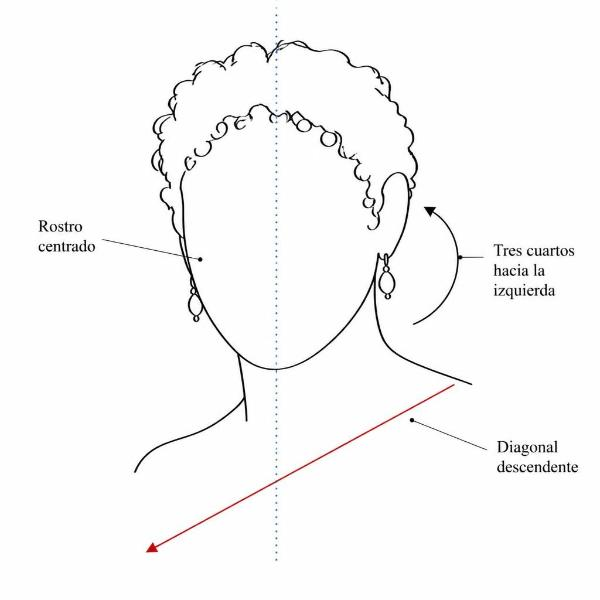
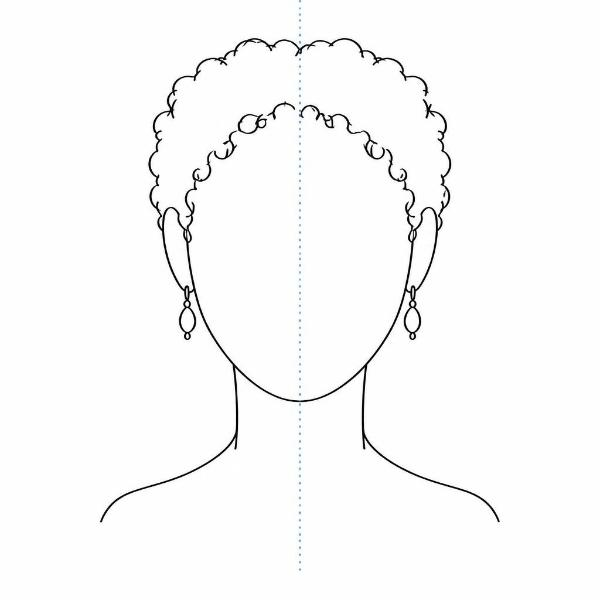
Incluyendo más agrupaciones para búsquedas

diff --git a/content/Seccion-retratos/Seccion-agrupaciones/Agrupaciones.md b/content/Seccion-retratos/Seccion-agrupaciones/Agrupaciones.md
@@ -9,7 +9,7 @@ Aquí tienen desglosadas y actualizadas todas las agrupaciones posibles.
 
 *** 
 
-| **1-AGBU**  | **AGRUPACIÓN BUSTOS**                                                                         |
+| **AGBU**    | **AGRUPACIÓN BUSTOS**                                                                         |
 | :---------: | :-------------------------------------------------------------------------------------------- |
 |    BU01     | Busto desplazado hacia la izquierda desbordando el marco                                      |
 |    BU02     | Busto desplazado hacia la izquierda sin desbordar el marco                                    |
@@ -19,7 +19,7 @@ Aquí tienen desglosadas y actualizadas todas las agrupaciones posibles.
 |    BU10     | Busto vestido                                                                                 |
 |    BU11     | Busto desnudo                                                                                 |
 |             |                                                                                               |
-| **2-AGCO**  | **AGRUPACIÓN COLLARES**                                                                       |
+| **AGCO**    | **AGRUPACIÓN COLLARES**                                                                       |
 |     COA     | Con un collar                                                                                 |
 |     COB     | Con dos collares                                                                              |
 |     COC     | Con tres o más collares                                                                       |
@@ -32,7 +32,18 @@ Aquí tienen desglosadas y actualizadas todas las agrupaciones posibles.
 |    CO25     | Dije unido a cuello y cintura                                                                 |
 |    CO50     | Collar recubierto con pan de oro                                                              |
 |             |                                                                                               |
-| **3-AGCR**  | **AGRUPACIÓN CORONAS**                                                                        |
+| **AGGE**    | **AGRUPACIÓN COMPOSICIÓN GEOMÉTRICA**                                                         |
+|    GE01     | Composición geométrica 01                                                                     |
+|    GE02     | Composición geométrica 02                                                                     |
+|    GE03     | Composición geométrica 03                                                                     |
+|    GEA      | Composición geométrica A                                                                      |
+|    GEB      | Composición geométrica B                                                                      |
+|    GEC      | Composición geométrica C                                                                      |
+|    GEi      | Composición geométrica i                                                                      |
+|    GEii     | Composición geométrica ii                                                                     |
+|    GEiii    | Composición geométrica iii                                                                    |
+|             |                                                                                               |
+| **AGCR**    | **AGRUPACIÓN CORONAS**                                                                        |
 |    CR00     | Corona indeterminada                                                                          |
 |    CR01     | Corona de pan de oro formando rombos y ángulo agudo en el centro                              |
 |    CR02     | Corona de pan de oro formando rombos adaptada al contorno de la cabeza                        |
@@ -40,14 +51,14 @@ Aquí tienen desglosadas y actualizadas todas las agrupaciones posibles.
 |    CR10     | Pasador central, perpendicular a la frente                                                    |
 |    CR20     | Adorno central estrellado                                                                     |
 |             |                                                                                               |
-| **4-AGCU**  | **AGRUPACIÓN CUELLOS**                                                                        |
+| **AGCU**    | **AGRUPACIÓN CUELLOS**                                                                        |
 |    CU01     | Cuello tipo ánfora                                                                            |
 |    CU02     | Cuello tipo de cisne                                                                          |
 |    CU03     | Cuello tipo toro                                                                              |
 |    CU04     | Cuello tipo troncocónico                                                                      |
 |    CU05     | Cuello tipo tubular                                                                           |
 |             |                                                                                               |
-| **5-AGED**  | **AGRUPACIÓN EDADES**                                                                         |
+| **AGED**    | **AGRUPACIÓN EDADES**                                                                         |
 |    ED01     | <3 años, bebé                                                                                 |
 |    ED02     | <3 años, niño pequeño                                                                         |
 |    ED03     | <3 años, niña pequeña                                                                         |
@@ -62,7 +73,7 @@ Aquí tienen desglosadas y actualizadas todas las agrupaciones posibles.
 |    ED12     | >50 años, anciano                                                                             |
 |    ED13     | >50 años, anciana                                                                             |
 |             |                                                                                               |
-| **7-AGES**  | **AGRUPACIÓN ESPECIAL**                                                                       |
+| **AGES**    | **AGRUPACIÓN ESPECIAL**                                                                       |
 |    ES01     | Retrato con inscripción                                                                       |
 |    ES02     | Retrato con nombre propio                                                                     |
 |    ES02a    | Retrato con nombre impropio                                                                   |
@@ -72,7 +83,7 @@ Aquí tienen desglosadas y actualizadas todas las agrupaciones posibles.
 |    ES30     | Retrato recompuesto                                                                           |
 |    ES40     | Panel pintado por ambos lados                                                                 |
 |             |                                                                                               |
-| **6-AGEG**  | **AGRUPACIÓN ESTADO GENERAL DEL RETRATO**                                                     |
+| **AGEG**    | **AGRUPACIÓN ESTADO GENERAL DEL RETRATO**                                                     |
 |    EG01     | Estado pésimo (-3)                                                                            |
 |    EG02     | Estado precario (-2)                                                                          |
 |    EG03     | Estado deficiente (-1)                                                                        |
@@ -82,13 +93,13 @@ Aquí tienen desglosadas y actualizadas todas las agrupaciones posibles.
 |    EG07     | Estado muy bueno (+2)                                                                         |
 |    EG08     | Estado excelente (+3)                                                                         |
 |             |                                                                                               |
-| **8-AGFO**  | **AGRUPACIÓN FONDOS**                                                                         |
+| **AGFO**    | **AGRUPACIÓN FONDOS**                                                                         |
 |    FO01     | Fondo completamente cubierto de dorado                                                        |
 |    FO02     | Fondo de color uniforme                                                                       |
 |    FO03     | Fondo con diferencia tonal: oscuro-pasado / claro-presente                                    |
 |    FO04     | Fondo con diferencia tonal: claro-pasado / oscuro-presente                                    |
 |             |                                                                                               |
-| **10-AGFR** | **AGRUPACIÓN FRENTES**                                                                        |
+| **AGFR**    | **AGRUPACIÓN FRENTES**                                                                        |
 |    FR01     | Frente tipo arco carpanel                                                                     |
 |    FR02     | Frente tipo arco conopial                                                                     |
 |    FR03     | Frente tipo arco deprimido                                                                    |
@@ -101,13 +112,13 @@ Aquí tienen desglosadas y actualizadas todas las agrupaciones posibles.
 |    FR20     | Frente tipo desacorde                                                                         |
 |    FR21     | Frente tipo pechina                                                                           |
 |             |                                                                                               |
-| **9-AGGR**  | **AGRUPACIÓN GRUPOS**                                                                         |
+| **AGGR**    | **AGRUPACIÓN GRUPOS**                                                                         |
 |    GR01     | Grupo de militares                                                                            |
 |    GR02     | Grupo de bustos desnudos                                                                      |
 |    GR03     | Grupo de sacerdotes-tisas                                                                     |
 |    GR04     | Grupo de empresarios                                                                          |
 |             |                                                                                               |
-| **11-AGIC** | **AGRUPACIÓN ICONOGRAFÍA**                                                                    |
+| **AGIC**    | **AGRUPACIÓN ICONOGRAFÍA**                                                                    |
 |    IC01     | Sudario tipo Osiris                                                                           |
 |    IC02     | Sudario tipo psicopompo                                                                       |
 |    IC03     | Enfardado rojo procesal                                                                       |
@@ -120,19 +131,19 @@ Aquí tienen desglosadas y actualizadas todas las agrupaciones posibles.
 |    IC90     | Collar usejet (grupo de símbolos inanimados)                                                  |
 |    IC91     | Gammadion                                                                                     |
 |             |                                                                                               |
-| **12-AGMI** | **AGRUPACIÓN MIRADAS**                                                                        |
+| **AGMI**    | **AGRUPACIÓN MIRADAS**                                                                        |
 |    MI01     | mirada de las 2000 yardas                                                                     |
 |    MI02     | mirada de frente al espectador                                                                |
 |    MI03     | mirada al infinito                                                                            |
 |             |                                                                                               |
-| **13-AGMO** | **AGRUPACIÓN MOMIAS**                                                                         |
+| **AGMO**    | **AGRUPACIÓN MOMIAS**                                                                         |
 |    MO01     | Momia con sudario rojo                                                                        |
 |    MO03     | Momia con enfardado romboidal, de diamante o de panal                                         |
 |    MO04     | Momia con inscripción                                                                         |
 |    MO05     | Momia con nombre propio                                                                       |
 |    MO06     | Momia con decoración estucada                                                                 |
 |             |                                                                                               |
-| **14-AGPE** | **AGRUPACIÓN PEINADOS**                                                                       |
+| **AGPE**    | **AGRUPACIÓN PEINADOS**                                                                       |
 |    PE03     | Peinado de solo rizos sobre la frente                                                         |
 |    PE05     | Peinado corto, liso y hacia la frente con corte recto                                         |
 |    PE06     | Peinado recogido en una trenza delantera paralela y pegada a la frente, alcanzando las sienes |
@@ -153,7 +164,7 @@ Aquí tienen desglosadas y actualizadas todas las agrupaciones posibles.
 |    PEM05    | peinado modelo Serapis                                                                        |
 |    PEM20    | Peinado modelo rizado sin paralelos                                                           |
 |             |                                                                                               |
-| **17-AGPN** | **AGRUPACIÓN PENDIENTES**                                                                     |
+| **AGPN**    | **AGRUPACIÓN PENDIENTES**                                                                     |
 |    PN01     | Pendientes tipo globular                                                                      |
 |    PN01a    | Pendientes tipo perla                                                                         |
 |    PN02     | Pendientes tipo _crotalia_                                                                    |
@@ -165,7 +176,7 @@ Aquí tienen desglosadas y actualizadas todas las agrupaciones posibles.
 |    PN09     | Pendientes tipo discoidal                                                                     |
 |    PN100    | Pendientes dudosos o irreconocibles                                                           |
 |             |                                                                                               |
-| **15-AGPG** | **AGRUPACIÓN PIGMENTOS**                                                                      |
+| **AGPG**    | **AGRUPACIÓN PIGMENTOS**                                                                      |
 |   PGAMA1    | Amarillo de plomo                                                                             |
 |   PGAMA2    | Jarosita                                                                                      |
 |   PGAMA3    | Litargirio                                                                                    |
@@ -198,18 +209,18 @@ Aquí tienen desglosadas y actualizadas todas las agrupaciones posibles.
 |   PGVER3    | Tierra u ocre celadonita                                                                      |
 |   PGVER4    | Tierra u ocre glauconita                                                                      |
 |             |                                                                                               |
-| **16-AGPI** | **AGRUPACIÓN PINTORES**                                                                       |
+| **AGPI**    | **AGRUPACIÓN PINTORES**                                                                       |
 |    PI01     | Pintor de Montreal                                                                            |
 |    PI02     | Pintor de Malibú                                                                              |
 |    PI03     | Pintor de Brooklyn                                                                            |
 |    PI04     | Maestro de Isidora                                                                            |
 |    PI05     | Pintor de San Luis                                                                            |
 |             |                                                                                               |
-| **18-AGPR** | **AGRUPACIÓN PROCEDENCIA**                                                                    |
+| **AGPR**    | **AGRUPACIÓN PROCEDENCIA**                                                                    |
 |    PR01     | Procede de excavación arqueológica                                                            |
 |    PR02     | No procede de excavación arqueológica                                                         |
 |             |                                                                                               |
-| **19-AGRF** | **AGRUPACIÓN RASGOS FACIALES**                                                                |
+| **AGRF**    | **AGRUPACIÓN RASGOS FACIALES**                                                                |
 |    RF01     | Collar de Venus                                                                               |
 |    RF10     | Rostro redondeado                                                                             |
 |    RF11     | Rostro cuadrado                                                                               |
@@ -218,13 +229,13 @@ Aquí tienen desglosadas y actualizadas todas las agrupaciones posibles.
 |    RF14     | Rostro triangular                                                                             |
 |    RF15     | Rostro adiamantado                                                                            |
 |             |                                                                                               |
-| **20-AGRE** | **AGRUPACIÓN REPRESENTACIÓN**                                                                 |
+| **AGRE**    | **AGRUPACIÓN REPRESENTACIÓN**                                                                 |
 |    RE01     | Solo busto                                                                                    |
 |    RE10     | Busto y manos                                                                                 |
 |    RE11     | Busto, manos y pies                                                                           |
 |    RE20     | Busto y pies                                                                                  |
 |             |                                                                                               |
-| **21-AGVE** | **AGRUPACIÓN VESTIMENTA**                                                                     |
+| **AGVE**    | **AGRUPACIÓN VESTIMENTA**                                                                     |
 |    VE01     | Chitón blanco                                                                                 |
 |    VE02     | Chitón púrpura                                                                                |
 |    VE03     | Chitón rojo oscuro                                                                            |

diff --git a/content/Seccion-retratos/Pad001-retratistica.md b/content/Seccion-retratos/Pad001-retratistica.md
@@ -6,27 +6,52 @@ title: Pad001 - Retratística
 # Retratística
 
 ### Descripción 
-I) Edad. [[Edades|Adolescente]] entre 15-20 años. 
+<u>I) Edad</u>. [[Edades|Adolescente]] entre 15-20 años. 
 
-II) Busto. Apenas visible para determinar su orientación, con ka cabeza en 3/4, girada a su derecha y verticalmente recta; el rostro tiene forma claramente [[Rostros|adiamantada]], presentando una mandíbula no marcada que termina en un mentón alargado y afilada. No se aprecia la asimetría facial tan característica en bastantes retratos.
+<u>II) Busto</u>. Apenas visible para determinar su orientación, con la cabeza en 3/4, girada a su derecha y verticalmente recta; el rostro tiene forma claramente [[Rostros|adiamantada]], presentando una mandíbula no marcada que termina en un mentón alargado y afilado. No se aprecia la asimetría facial tan característica en bastantes retratos.
 
-III) Cabello/frente y orejas. El pelo negro, corto y liso conforma una frente [[Frentes|tipo arco carpanel]], que define un espacio estrecho pero limpio. El peinado (más la rotación del busto) no deja vislumbrar apenas nada de las orejas.
+<u>III) Cabello/frente y orejas</u>. El pelo negro, corto y liso conforma una frente [[Frentes|tipo arco carpanel]], que define un espacio estrecho pero limpio. El peinado (más la rotación del busto) no deja vislumbrar apenas nada de las orejas.
 
-IV) Ojos. Cejas anchas, arqueadas y largas, bien cuidadas, junto a pestañas muy ligeramente perceptibles solo en el ojo derecho, enmarcan hendiduras palpebrales grandes y almendradas; ojos algo caídos, con la “mirada de las 2000 yardas”, carentes de punto blanco en la pupila (el denominado “punto de la vida”). Los párpados superiores aparecen pesados y caídos, mientras que los inferiores se adivinan enrojecidos, y los pómulos no se han destacado.
+<u>IV) Ojos</u>. Cejas anchas, arqueadas y largas, bien cuidadas, junto a pestañas muy ligeramente perceptibles solo en el ojo derecho, enmarcan hendiduras palpebrales grandes y almendradas; ojos algo caídos, con la “mirada de las 2000 yardas”, carentes de punto blanco en la pupila (el denominado “punto de la vida”). Los párpados superiores aparecen pesados y caídos, mientras que los inferiores se adivinan enrojecidos, y los pómulos no se han destacado.
 
-V) Nariz y boca. Larga y recta, con lóbulos abiertos, la primera, se une a la boca por un surco nasolabial apenas marcado y sin surcos nasogenianos. Esta se ha representado cerrada, corta y pequeña, con un pliegue comisural marcado por una gran línea negra recta; elegantes labios de tonos rosados y el arco de Cupido apenas relevante. En conjunto, la boca ofrece una serenidad y abstracción de excesos que refuerza el conjunto.
+<u>V) Nariz y boca</u>. Larga y recta, con lóbulos abiertos, la primera, se une a la boca por un surco nasolabial apenas marcado y sin surcos nasogenianos. Esta se ha representado cerrada, corta y pequeña, con un pliegue comisural marcado por una gran línea negra recta; elegantes labios de tonos rosados y el arco de Cupido apenas relevante. En conjunto, la boca ofrece una serenidad y abstracción de excesos que refuerza el conjunto.
 
-VI) Cuello. [[Cuellos|Cuello tipo tubular]].
+<u>VI) Cuello</u>. [[Cuellos|Tipo tubular]].
 
-VII) Carnación. Tonos cálidos de tez mediterránea con pocas florituras.
+<u>VII) Carnación</u>. Tonos cálidos de tez mediterránea con pocas florituras.
 
-VIII) Luz. Una luz lateral contrastada entra desde su izquierda, aunque las sombras propias han sido bastante obliteradas salvo, quizás, en el cuello. A la vez, la zona iluminada lo está, en apariencia, del mismo color adyacente, solo que aclarado.
-
-IX) Desplazamiento No percibimos nada destacable en este apartado.
-
-X) Fondo. Para Christie's (2006), es de tono crema visible hoy apenas, aunque encajaría perfectamente con la tonalidad general de la obra.
-
-XI) Consideración general. La obra presenta una coherencia absoluta y una belleza serena imponente. Todos los detalles que se han ido enumerando abundan en una declaración sin estridencias, en un excelso tratamiento pictórico que acompaña una imagen trágica y calma a la vez.
+<u>VIII) Consideraciones generales (*[[Consideraciones|vid.]]*)</u>. La obra presenta una coherencia cromática absoluta y una belleza serena imponente. Todos los detalles que se han ido enumerando abundan en una declaración sin estridencias, en un excelso tratamiento pictórico que acompaña una imagen trágica y calma a la vez.
 
 ### Técnica, materiales y procedimientos 
-I) Técnica. Encáustica (cera como aglutinante) sobre madera desconocida de 39.6 cm (Christie's 2006).
+**I) Técnica.** 
+
+a) Encáustica (cera como aglutinante) sobre madera desconocida de 39.6 cm (Christie's 2006).
+
+b) La encáustica ([[encaustica|v. artículo]]) es una técnica pictórica que utiliza la cera fundida como aglutinante de los pigmentos. A veces se añaden pequeñas cantidades de resinas naturales, para conferir mayor dureza, o aceites, para facilitar su manipulación. Debe aplicarse en caliente con pincel o espátula y, al enfriarse, se endurece y queda fundida sobre la superficie.
+
+**II) Materiales.**
+
+<u>a), b), c)</u> Carecemos de informaciones relativas a imprimación, pigmentos o decoraciones especiales aplicadas a esta obra.
+
+**III) Procedimientos.**
+
+<u>a), b)</u> Sin noticias sobre la existencia de aparejo o boceto preparatorio en este panel.
+
+(V. figura 1: Esquema geométrico 03. Elaboración propia).
+<img src="../images/geometria-03.jpg" alt="Esquema geométrico 03" style="float: right; width: 250px; margin: 0 0 15px 20px; border-radius: 8px;">
+
+<u>c) Composición</u>. Con el estrecho marco que sobrevive del retrato es difícil extraer conclusiones. Da la impresión de ofrecernos un esquema geométrico que definiremos como 03 ([[Agrupaciones|agrupación GE03]]): rostro vertical centrado en la composición y girado en tres cuartos hacia la izquierda, acompañado con una postura frontal de los hombros. Este diseño debe atender a criterios pictóricos en exclusiva, donde la cabeza marca un ligero *[[contrapposto]]* respecto del busto.
+
+<u>d) Fondo</u>. Para Christie’s (2006), es de tono crema visible hoy apenas, aunque encajaría perfectamente con la tonalidad general de la obra. Como en el caso de la composición, también aquí parecen existir solo connotaciones pictóricas.
+
+<u>e) Luz</u>. Una luz lateral contrastada entra desde su izquierda, aunque las sombras propias han sido bastante obliteradas salvo, quizás, en el cuello. A la vez, la zona iluminada lo está, en apariencia, con clarados del mismo color adyacente.
+
+<u>f) Color</u>. En la eterna disputa pictórica entre el dibujo y el color, en este caso no hay rastro del primero y el segundo domina la composición. Con él se han creado las formas y el retrato. Desconociendo los pigmentos utilizados en la obra, la impresión del resultado final apunta a una paleta bastante reducida, cuya mayor complejidad residiría en conseguir el tono tierra marrón en el que se han mimetizado incluso los restos de enfardado presentes. Una vez logrado, el pintor solo tuvo que aclarar más o menos la mezcla para establecer puntos de luz y volumen.
+
+<u>g) Pincelada</u>. Es imposible, a la vista de la fotografía del catálogo de Christie's, afirmar algo coherente a este respecto, por mucho que la técnica empleada proporcione pistas sobre el método de trabajo.
+
+<u>h) Detallismo</u>. Existen algunos detalles incoherentes en el resultado del trabajo que hemos señalado en sus campos respectivos; obviándolos, por tanto, nos queda la consabida atención centrada en el rostro que, en este caso, parece extenderse con cierta riqueza al tratamiento del peinado y los paños.
+
+<u>i) Realismo/esquematismo</u>. La obra es naturalista individualizada (el hiperrealismo no existía hace dos mil años). Jamás podremos saber si el artista idealizó, suavizó o, quizás, acentuó algún rasgo de su comitente, pero resulta manifiesto que la efigiada que vemos en una señora única.
+
+<div style="clear: both;"></div>

diff --git a/content/Seccion-retratos/PI0001-retratistica.md b/content/Seccion-retratos/PI0001-retratistica.md
@@ -42,10 +42,12 @@ b) La témpera ([[tempera|v. artículo]]), o el temple, sustantivos que consider
 
 <u>b) Boceto</u>. No hay noticias de ningún boceto o dibujo preliminar.
 
-<u>c) Composición</u>. Presenta un <a href="../images/geometria-01.jpg" target="_blank" rel="noopener noreferrer">esquema geométrico ordinario</a>: rostro vertical centrado en la composición y girado en tres cuartos, en este caso hacia la izquierda, sincronizado con una diagonal inferior descendente de derecha a izquierda. El personaje está desplazado hacia ese lado superior, donde parece que puede desbordar el marco, apoyando la línea de fuerza oblicua. En nuestra opinión, este diseño, lejos de ser casual, y atender a criterios pictóricos relacionados con el *[[contrapposto]]*, podría tener un componente mágico-religioso: proyecta la esperanza de un movimiento que se correspondería con el lapso pasado-futuro.
-Se define con un esquema geométrico ordinario: rostro vertical centrado en la composición y girado en tres cuartos, en este caso hacia la izquierda, sincronizado con una diagonal inferior descendente de derecha a izquierda. El personaje está desplazado hacia ese lado superior, donde parece que puede desbordar el marco, apoyando la línea de fuerza oblicua. En nuestra opinión, este diseño, lejos de ser casual, y atender a criterios pictóricos relacionados con el *contrapposto*, podría tener un componente mágico-religioso: proyecta la esperanza de un movimiento que se correspondería con el lapso pasado-futuro.
+(V. figura 1: Esquema geométrico C. Elaboración propia).
+<img src="../images/geometria-c.jpg" alt="Esquema geométrico C" style="float: right; width: 250px; margin: 0 0 15px 20px; border-radius: 8px;">
 
-<u>d) Fondo</u>. El fondo acentúa el desplazamiento de Aline con una absoluta diferencia tonal entre su derecha (pasado), tono más oscuro, y su izquierda (futuro), sensiblemente más claro. Lo curioso es que ese tratamiento del fondo ha invadido al personaje, en lo que a su vestimenta se refiere, produciéndose una destacable disonancia entre luz del rostro y luz del fondo. Dice Doxiadis (2000, pp. 64 y 200) que este retrato sobresale, entre los realizados a la témpera, por tener un fondo coloreado (marrón claro debajo de la carne y gris negruzco en otras partes) en vez del habitual blanco.
+<u>c) Composición</u>. Lo definiremos como un esquema geométrico C ([[Agrupaciones|agrupación GEC]]): rostro vertical centrado en la composición y girado en tres cuartos hacia la izquierda, sincronizado con una diagonal inferior descendente de derecha a izquierda. El personaje está desplazado hacia ese lado superior, donde parece que puede desbordar el marco, apoyando la línea de fuerza oblicua. En nuestra opinión, este diseño, lejos de ser casual, y atender a criterios pictóricos relacionados con el *[[contrapposto]]*, podría tener un componente mágico-religioso: proyecta la esperanza de un movimiento que se correspondería con el lapso pasado-futuro.
+
+<u>d) Fondo</u>. El fondo acentúa el desplazamiento de Aline con una absoluta diferencia tonal entre su derecha (pasado), tono más oscuro, y su izquierda (futuro), sensiblemente más claro ([[Agrupaciones|agrupación FO03]]). Lo curioso es que ese tratamiento del fondo ha invadido al personaje, en lo que a su vestimenta se refiere, produciéndose una destacable disonancia entre luz del rostro y luz del fondo. Dice Doxiadis (2000, pp. 64 y 200) que este retrato sobresale, entre los realizados a la témpera, por tener un fondo coloreado (marrón claro debajo de la carne y gris negruzco en otras partes) en vez del habitual blanco.
 
 <u>e) Luz</u>. La luz entra desde su izquierda y produce sombras propias evidentes en la nariz, sobre el labio superior y bajo el inferior, en el cuello y en la parte derecha del rostro. Es una fuente dura y contrastante como demuestran los puntos de luz en la frente y, sobre todo, en el lóbulo de la nariz, además de blanquear el cuello de Aline.
 
@@ -56,3 +58,5 @@ Se define con un esquema geométrico ordinario: rostro vertical centrado en la c
 <u>h) Detallismo</u>. También en este soberbio ejemplar se comprueba que los detalles pierden nitidez a medida que se alejan del centro del rostro. Es un pormenor del mayor interés, no ya pictórico, sino social que, en nuestra opinión, viene a abundar (junto a otros datos) en que estos retratos carecían de un interés social ostentatorio. Aunque es imposible generalizar y el alarde está mucho menos claro en bastantes retratos femeninos. Aquí, la vestimenta, un excelente medio de comunicación no verbal, casi se ha obviado frente, eso sí, al realce dado a la joyería.
 
 <u>i) Realismo/esquematismo</u>. La obra es naturalista individualizada (el hiperrealismo no existía hace dos mil años). Jamás podremos saber si el artista idealizó, suavizó o, quizás, acentuó algún rasgo de su comitente, pero resulta manifiesto que la efigiada que vemos en una señora única.
+
+<div style="clear: both;"></div>

diff --git a/content/Seccion-retratos/Seccion-complementos/Peinados/modf-livilla.md b/content/Seccion-retratos/Seccion-complementos/Peinados/modf-livilla.md
@@ -3,14 +3,14 @@ title: Modelo Livilla
 ---
 
 
-Evolución del modelo Melonfrisur con una sutil adición.
+Evolución del [[modf-melon|modelo Melonfrisur]] con una sutil adición.
 
 La primera persona que agregó un detalle extra al peinado «modelo de melón» fue Claudia Livia (15/10 aC - 31 dC), más conocida por su apodo familiar: Livilla (la pequeña Livia). El leve añadido no solo fue ingenioso, sino de un resultado extraordinario: incorporó una línea de finos rizos de caracol sobre la frente.
 
-(V. fotografía: Modelo Livilla, tipo 1Qa. En Boschung, 1993, pp. 63-64).
+(V. figura 1: Modelo Livilla, tipo 1Qa. En Boschung, 1993, pp. 63-64).
 <img src="../images/mod-fem-livilla.jpg" alt="Modelo Livilla" style="float: right; width: 350px; margin: 0 0 15px 20px; border-radius: 8px;">
 
-Livilla, con un fuerte entronque en la familia Julio-Claudia, fue acusada de traición y su nombre condenado a *[[damnatio memoriae]]*, razón por la cual es problemático identificarla en algunas imágenes. Se la confunde sobre todo con Antonia la Menor. A pesar de este castigo y la dificultad, se conservan bastantes retratos asociados a ella, tanto de época tiberiana como domiciana (aquí las dinastías romanas). La imagen que hemos reproducido en la figura y que mejor representa este peinado es el llamado tipo «Leptis-Malta», del que se conocen al menos ocho ejemplares.
+Livilla, con un fuerte entronque en la familia Julio-Claudia, fue acusada de traición y su nombre condenado a *[[damnatio|damnatio memoriae]]*, razón por la cual es problemático identificarla en algunas imágenes. Se la confunde sobre todo con Antonia la Menor. A pesar de este castigo y la dificultad, se conservan bastantes retratos asociados a ella, tanto de época tiberiana como domiciana (aquí las dinastías romanas). La imagen que hemos reproducido en la figura y que mejor representa este peinado es el llamado tipo «Leptis-Malta», del que se conocen al menos ocho ejemplares.
 
 Utilizaron el mismo tipo de arreglo Agripina la Menor (15 - 59), Julia Drusila (16/18 - 38), y Valeria Mesalina (ca. 25 - 48). se suele citar como ejemplo de este peinado a Agripina la Mayor (17 aC - 33 dC, esposa de Claudio y madre de Nerón) a partir de su famoso retrato escultórico en los Musei Capitolini de Roma. En nuestra opinión, salvo unos rizos esfenoides, este peinado nada tiene que ver ni con el modelo Melonfrisur, ni con el modelo Livilla.
 

diff --git a/content/Seccion-retratos/Pad001-museologia.md b/content/Seccion-retratos/Pad001-museologia.md
@@ -14,7 +14,7 @@ En la información de dicha venta, solo aparece que estaba en posesión de [[Cam
 ### Conservación 
 I) En su actual [[Estado-de-conservacion|estado de conservación]], el conjunto del retrato se nos presenta como muy bueno (2).
 
-II) a) La madera está [[Cortes|cortada]] con un borde superior indescifrable que cubren restos de tela, cantos laterales irregulares (el lado derecho muy discontinuo; el lado izquierdo formando un ligero arco cóncavo), ensanchándose hacia la base que es recta y está pintada en su totalidad. b) Solo presenta una fisura en la parte central-superior que va desde el ojo a la nariz, y dos ligeras grietas verticales en el centro de su base, más aparentes pérdidas de material en la zona de la vestimenta. c) Por tanto, la madera se encuentra en buenas condiciones, su curvatura creemos que le otorga un valor expositivo adicional, que sabemos puede corregirse si se quisiera.
+II) a) La madera está [[Cortes|cortada]] con un borde superior indescifrable cubierto por restos de tela; cantos laterales irregulares (el lado derecho muy discontinuo, el izquierdo formando un ligero arco cóncavo), ensanchándose hacia la base que es recta y está pintada en su totalidad. b) Solo presenta una fisura en la parte central-superior que va desde el ojo a la nariz, y dos ligeras grietas verticales en el centro de su base, más aparentes pérdidas de material en la zona de la vestimenta. c) Por tanto, la madera se encuentra en buenas condiciones, su curvatura creemos que le otorga un valor expositivo adicional, que sabemos puede corregirse si se quisiera.
 
 III) a) La capa pictórica sí ha padecido más el paso del tiempo; ha saltado en algunos lugares, como en la parte central de la vestimenta o sien izquierda, pero, sobre todo, presenta mucho desgaste y pérdida de color, advirtiéndose un velo blanquecino que no sabemos a qué se debe. b) En toda la superficie del retrato hay concreciones de suciedad y, en los extremos, restos del enfardado. c) Por tanto, el color ha perdido intensidad, presentando un aspecto bastante desvaído.
 

diff --git a/content/Glosario/contrapposto.md b/content/Glosario/contrapposto.md
@@ -3,9 +3,9 @@ title: Contrapposto
 ---
 
 
-Palabra italiana. 
-
 «Vocablo italiano que ha pasado a casi todas las lenguas europeas para indicar el contraste, oposición, equilibrio y movimiento rítmico de las partes simétricas de un cuerpo moviéndose. A un hombro alto corresponde otro bajo; a una pierna doblada en reposo, la otra erguida recibiendo todo el peso del cuerpo, con lo que éste parece suelto, vivo. Esa ley de alternancia que Palomino llama contraposición de líneas fue descubierta por los griegos del siglo V, según se ve en Polícleto (el *Doríforo* y la *Amazona*) y fue el golpe decisivo que acabó con la ley de la frontalidad, norma del arcaísmo». 
+
+En nuestro caso, entendemos que esta técnica, además de su probado interés artístico, se utilizaba con intenciones narrativas vinculadas a los componentes mágico-religiosos de las creencias egipcias: permite colocar, o dirigir, a las figuras en varios espacios-tiempo. Su manejo concreto se explicará en las fichas correspondientes.
 
 **Bibliografía**
 

diff --git a/content/Seccion-retratos/Pad001-sociologia.md b/content/Seccion-retratos/Pad001-sociologia.md
@@ -17,6 +17,4 @@ Desconocida, sin datos al respecto, aunque Christie's (2006) lo supone de Hawara
 Mujer joven de aspecto cuidado. 
 
 ### Comentarios sociológicos 
-Pertenece al Grupo de momias con enfardado romboidal, de diamante o de panal
-
-Christie's 2006 advierte que en la parte inferior derecha se adivina un enfardado con patrón de rombos, visible en la fotografía.
+Pertenece al Grupo de momias con enfardado romboidal, de diamante o de panal ([[Agrupaciones|agrupación MO03]]), como puede apreciarse en la parte inferior derecha de la fotografía, y advierte Christie's 2006.

diff --git a/content/Seccion-retratos/Pad001.md b/content/Seccion-retratos/Pad001.md
@@ -20,10 +20,12 @@ corona: "No"
 pendientes: "Sí"
 collares: "Sí"
 agrupaciones:
-  - MO03
-  - PN09
-  - PR02
-  - RE01
+- FO02
+- GE03
+- MO03
+- PN09
+- PR02
+- RE01
 ---
 
 

diff --git a/content/Seccion-retratos/PI0001.md b/content/Seccion-retratos/PI0001.md
@@ -24,6 +24,8 @@ agrupaciones:
 - COA
 - CO01
 - EG08
+- FO03
+- GEC
 - PN01a
 - PR01
 - RE01
